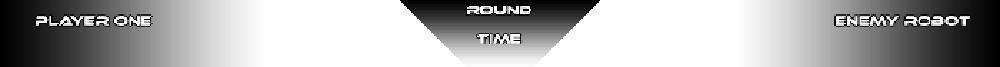
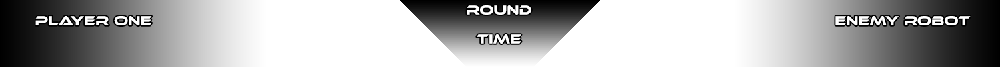
image blur issue resolved

diff --git a/js/main.js b/js/main.js
@@ -45,6 +45,13 @@ player.opponent = robot;
 robot.opponent = player;
 
 window.onload = function () {
+	
+ // Helps it not blur from the scaling:
+	context.mozImageSmoothingEnabled = false;
+	context.imageSmoothingEnabled = false;
+	context.msImageSmoothingEnabled = false;
+	context.imageSmoothingEnabled = false;
+	
   (function draw() {
     frameTimestamp = performance.now();
     deltaTime = frameTimestamp - previousTimestamp;
@@ -75,8 +82,8 @@ window.onload = function () {
       }
       else {
         
-        if (INTRO_music_is_playing) { INTRO_music.pause(); INTRO_music_is_playing = false; } 
-        if (!music_is_playing) { music.play(); music_is_playing = true; }
+       // if (INTRO_music_is_playing) { INTRO_music.pause(); INTRO_music_is_playing = false; } 
+      //  if (!music_is_playing) { music.play(); music_is_playing = true; }
         
         if (roundStartCountdownTick < 0) {
           roundStarted = true;
